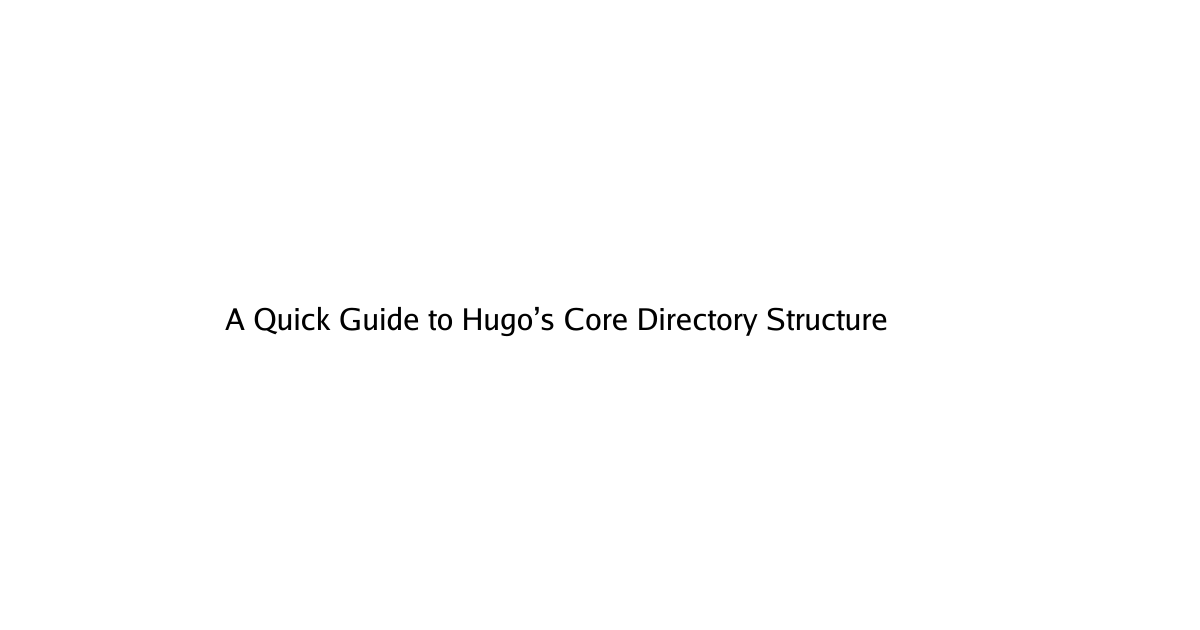
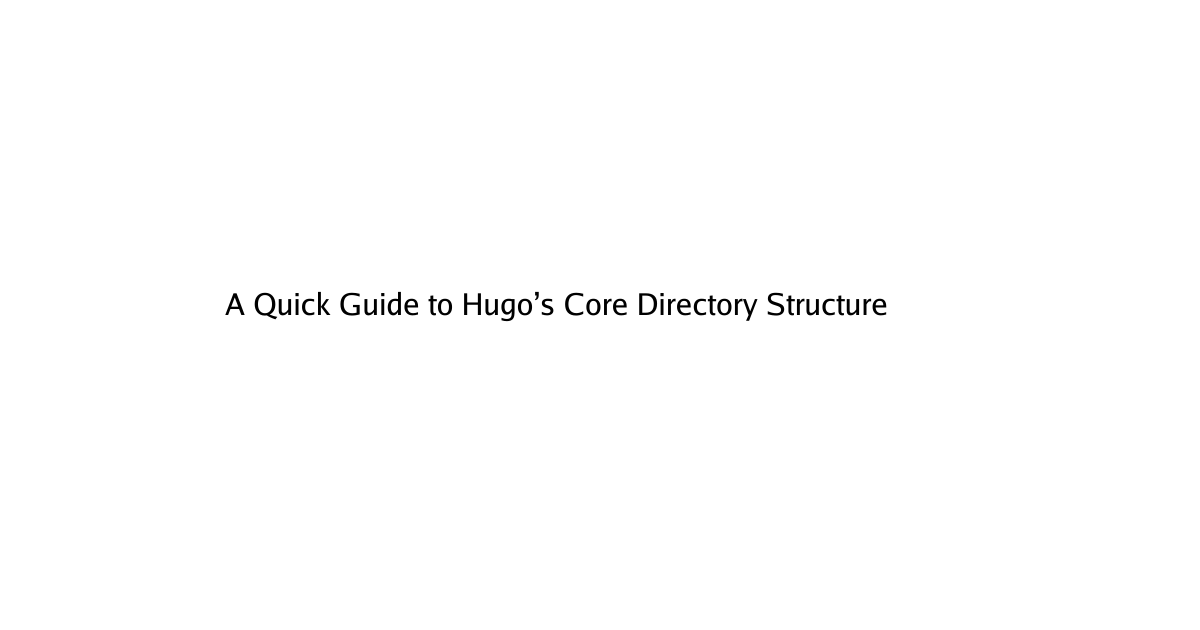
s

Changed region(s): [[0.185, 0.4524, 0.74, 0.5429]]

diff --git a/website/cmd/generate-og-images/main.go b/website/cmd/generate-og-images/main.go
@@ -93,13 +93,24 @@ func generateImage(title, outputPath string) {
 	c.SetDst(img)
 	c.SetSrc(image.NewUniform(color.Black))
 
-	// Calculate text width for proper centering
-	textWidth := c.PointToFixed(30) * fixed.Int26_6(len(title)) / 2
-	x := (fixed.I(width) - textWidth) / 2
-	y := fixed.I(height/2) + c.PointToFixed(30)/2
+	// Wrap text if too long
+	maxWidth := width - 120 // 60px padding on each side
+	lines := wrapText(title, maxWidth, c)
 	
-	pt := fixed.Point26_6{X: x, Y: y}
-	c.DrawString(title, pt)
+	// Calculate starting Y position for multiple lines
+	lineHeight := c.PointToFixed(40)
+	totalHeight := lineHeight * fixed.Int26_6(len(lines)-1)
+	startY := fixed.I(height/2) - totalHeight/2
+	
+	// Draw each line centered
+	for i, line := range lines {
+		textWidth := c.PointToFixed(30) * fixed.Int26_6(len(line)) / 2
+		x := (fixed.I(width) - textWidth) / 2
+		y := startY + lineHeight*fixed.Int26_6(i)
+		
+		pt := fixed.Point26_6{X: x, Y: y}
+		c.DrawString(line, pt)
+	}
 
 	file, err := os.Create(outputPath)
 	if err != nil {
@@ -109,4 +120,37 @@ func generateImage(title, outputPath string) {
 	defer file.Close()
 
 	png.Encode(file, img)
+}
+
+func wrapText(text string, maxWidth int, c *freetype.Context) []string {
+	words := strings.Fields(text)
+	if len(words) == 0 {
+		return []string{text}
+	}
+	
+	var lines []string
+	currentLine := ""
+	
+	for _, word := range words {
+		testLine := currentLine
+		if testLine != "" {
+			testLine += " "
+		}
+		testLine += word
+		
+		// Rough estimate: 30px font ≈ 18px average character width
+		estimatedWidth := len(testLine) * 18
+		if estimatedWidth > maxWidth && currentLine != "" {
+			lines = append(lines, currentLine)
+			currentLine = word
+		} else {
+			currentLine = testLine
+		}
+	}
+	
+	if currentLine != "" {
+		lines = append(lines, currentLine)
+	}
+	
+	return lines
 }
